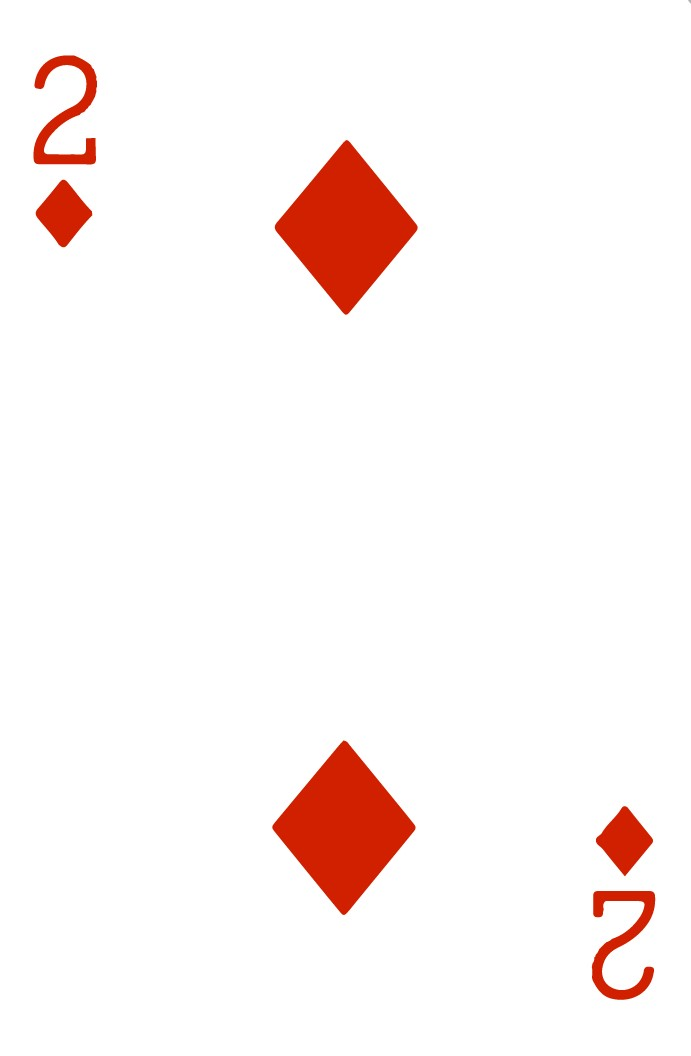
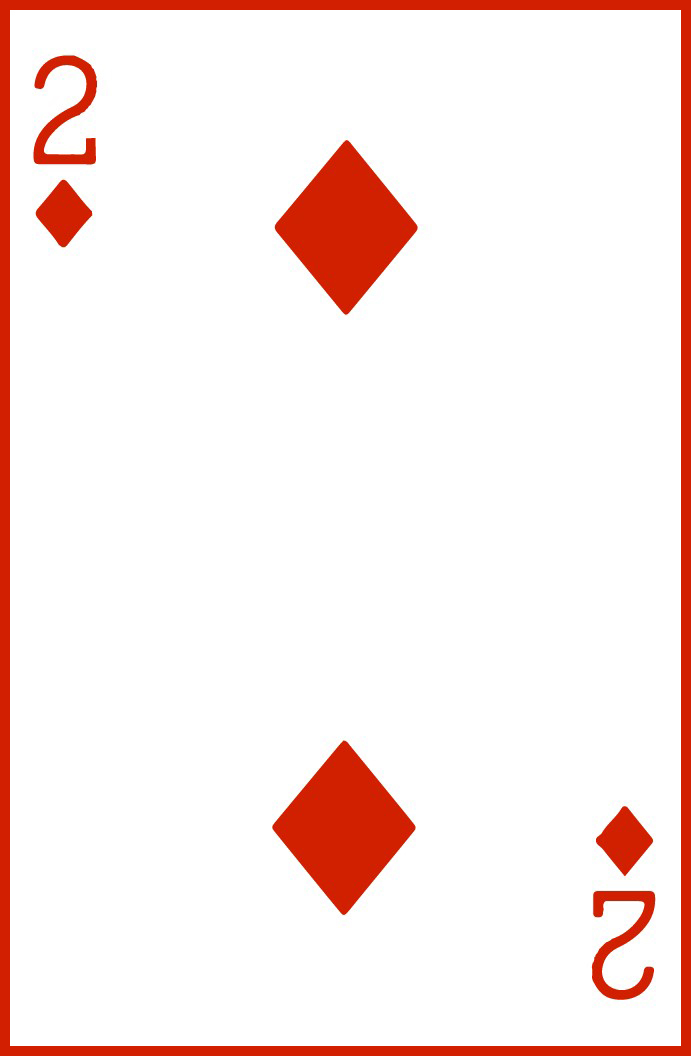
Fixed Foundation

Changed region(s): [[0.0, 0.0, 1.0, 1.0]]

diff --git a/Solitaire/src/application/controller/GameOneController.java b/Solitaire/src/application/controller/GameOneController.java
@@ -643,38 +643,38 @@ public class GameOneController
 		
 		if(cardFoundationHearts[0] != null)
 		{
-			foundationHearts.setStyle("-fx-background-image: url('" + cardFoundationHearts[heartsPointer - 1] + ".jpg'); -fx-background-size: 100%; -fx-opacity: 1");
+			foundationHearts.setStyle("-fx-background-image: url('" + cardFoundationHearts[heartsPointer - 1] + ".jpg'); -fx-background-size: 100px 150px; -fx-opacity: 1");
 		}
 		else
 		{
-			foundationHearts.setStyle("-fx-background-image: url('AH.jpg'); -fx-background-size: 100%; -fx-opacity: 0.25");
+			foundationHearts.setStyle("-fx-background-image: url('AH.jpg'); -fx-background-size: 100px 150px; -fx-opacity: 0.10");
 		}
 		
 		if(cardFoundationSpades[0] != null)
 		{
-			foundationSpades.setStyle("-fx-background-image: url('" + cardFoundationSpades[spadesPointer - 1] + ".jpg'); -fx-background-size: 100%; -fx-opacity: 1");
+			foundationSpades.setStyle("-fx-background-image: url('" + cardFoundationSpades[spadesPointer - 1] + ".jpg'); -fx-background-size: 100px 150px; -fx-opacity: 1");
 		}
 		else
 		{
-			foundationSpades.setStyle("-fx-background-image: url('AS.jpg'); -fx-background-size: 100%; -fx-opacity: 0.25");
+			foundationSpades.setStyle("-fx-background-image: url('AS.jpg'); -fx-background-size: 100px 150px; -fx-opacity: 0.10");
 		}
 		
 		if(cardFoundationDiamonds[0] != null)
 		{
-			foundationDiamonds.setStyle("-fx-background-image: url('" + cardFoundationDiamonds[diamondsPointer - 1] + ".jpg'); -fx-background-size: 100%; -fx-opacity: 1");
+			foundationDiamonds.setStyle("-fx-background-image: url('" + cardFoundationDiamonds[diamondsPointer - 1] + ".jpg'); -fx-background-size: 100px 150px; -fx-opacity: 1");
 		}
 		else
 		{
-			foundationDiamonds.setStyle("-fx-background-image: url('AD.jpg'); -fx-background-size: 100%; -fx-opacity: 0.25");
+			foundationDiamonds.setStyle("-fx-background-image: url('AD.jpg'); -fx-background-size: 100px 150px; -fx-opacity: 0.10");
 		}
 		
 		if(cardFoundationClubs[0] != null)
 		{
-			foundationClubs.setStyle("-fx-background-image: url('" + cardFoundationClubs[clubsPointer - 1] + ".jpg'); -fx-background-size: 100%; -fx-opacity: 1");
+			foundationClubs.setStyle("-fx-background-image: url('" + cardFoundationClubs[clubsPointer - 1] + ".jpg'); -fx-background-size: 100px 150px; -fx-opacity: 1");
 		}
 		else
 		{
-			foundationClubs.setStyle("-fx-background-image: url('AC.jpg'); -fx-background-size: 100%; -fx-opacity: 0.25");
+			foundationClubs.setStyle("-fx-background-image: url('AC.jpg'); -fx-background-size: 100px 150px; -fx-opacity: 0.10");
 		}
 
 		int pointer = (wastePointer - Main.mode < 0)? 0 : wastePointer - Main.mode;
